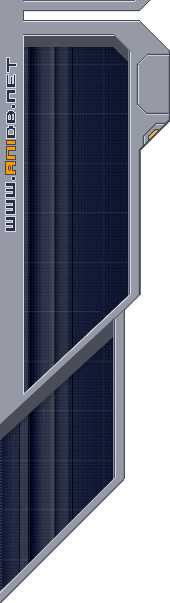
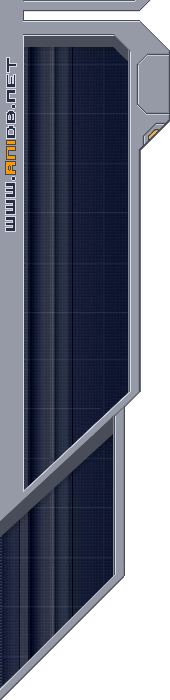
git-svn-id: svn://dev.anidb.net/svn/trunk@1078 bed53a55-4da3-433c-baf4-d4f70f2fd34a

diff --git a/css/anidbstyle/layout.css b/css/anidbstyle/layout.css
@@ -4,7 +4,7 @@
 	top: 94px;
 	left: 0;
 	width: 142px;
-	height: 603px;
+	height: 700px;
 	padding: 51px 0px 0px 28px;
 	background: transparent url(../anidbstyle/images/menuback.png) no-repeat top left;
 }
@@ -13,7 +13,7 @@
 #menu-login
 {
 	position: absolute;
-	top: 420px;
+	top: 520px;
 	left: 8px;
 	line-height: 2;
 }
@@ -21,7 +21,7 @@
 #menu-mod
 {
 	position: absolute;
-	top: 600px;
+	top: 700px;
 	left: 23px;
 	padding: 4px;
 	background-color: #1a2238;
@@ -35,8 +35,8 @@
 	margin-bottom: 10px;
 }
 
-#layout-menu li.mymessages, #layout-menu li.mynotifies, #layout-menu li.mywishlist,
-#layout-menu li.myvotes, #layout-menu li.myreviews, #layout-menu li.mydbentries,
+#layout-menu li.mynotifies, #layout-menu li.mywishlist,
+#layout-menu li.myreviews, #layout-menu li.mydbentries,
 #layout-menu li.mycreqs, #layout-menu li.up2date
 {
 	display: none;
@@ -79,7 +79,7 @@
 	left: auto;
 	right: 0;
 	-right: -1px;
-	width: 152px;
+	width: 250px;
 	height: 57px;
 }
 
@@ -89,9 +89,18 @@
 	margin-left: 32px;
 }
 
+#layout-search select
+{
+	display:block !important;
+	float: left;
+	font-size:10px;
+}
+
 #layout-search div.search form input.text
 {
-	margin-bottom: 2px;
+	width:120px;
+	float: right;
+	margin-right: 5px;
 }
 
 #layout-search div.search form input.submit
@@ -103,6 +112,7 @@
 	height: 14px;
 	border: 0;
 	cursor: pointer;
+	margin-top: 2px;
 }
 
 #layout-content
@@ -132,7 +142,7 @@
 #layout-tabs
 {
 	position: absolute;
-	right: 152px;
+	right: 260px;
 	left: 168px;
 	top: 79px;
 }

diff --git a/css/common/layout/page/admin.css b/css/common/layout/page/admin.css
@@ -27,9 +27,11 @@
 	border: none;
 }
 
-#layout-main div.admin_menu,
+#layout-main div.admin_menu ul,
 #layout-main div.admin_cat_menu ul
 {
-	margin-left: 25%;
-	margin-right: 25%;
+	margin-left: auto;
+	margin-right: auto;
+	width: 20em;
+	text-align: left;
 }
